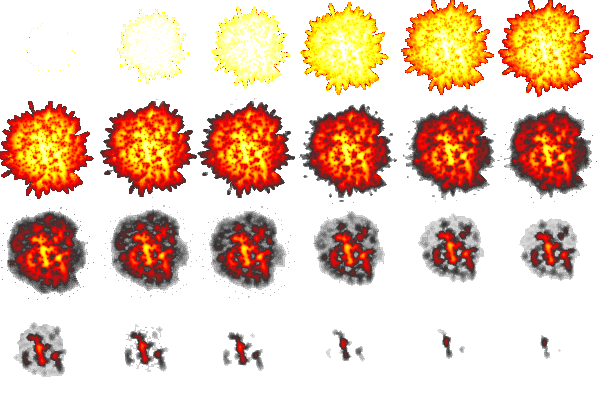
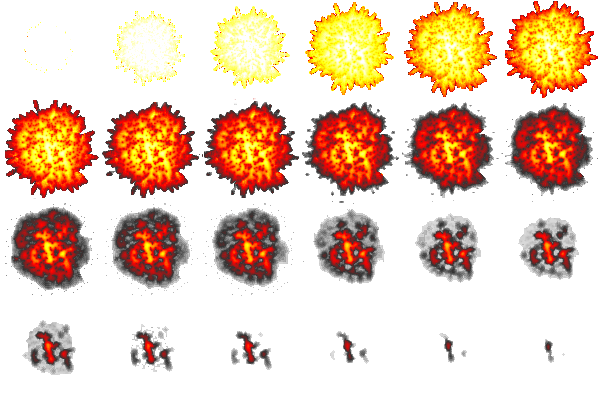
Fixed explosion animation

diff --git a/Game/Entities/Aircraft.cpp b/Game/Entities/Aircraft.cpp
@@ -312,7 +312,7 @@ void Aircraft::createPickup() const
 
 void Aircraft::createExplosion() const
 {
-    std::unique_ptr<AnimationNode> explosion(new AnimationNode(AnimationNode::Explosion, sf::seconds(0.03f), mTextures));
+    std::unique_ptr<AnimationNode> explosion(new AnimationNode(AnimationNode::Explosion, sf::seconds(0.06f), mTextures));
     explosion->setPosition(getWorldPosition());
     getWorld().placeOnLayer(std::move(explosion), Category::AirLayer);
 }
